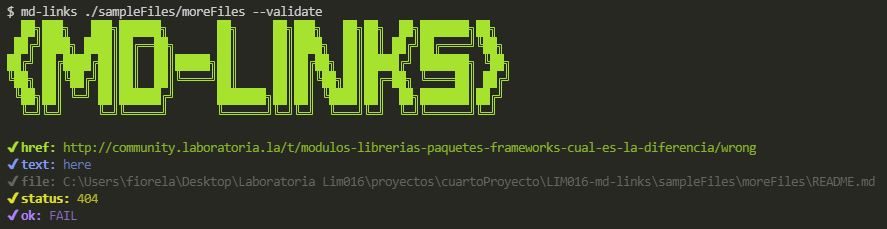
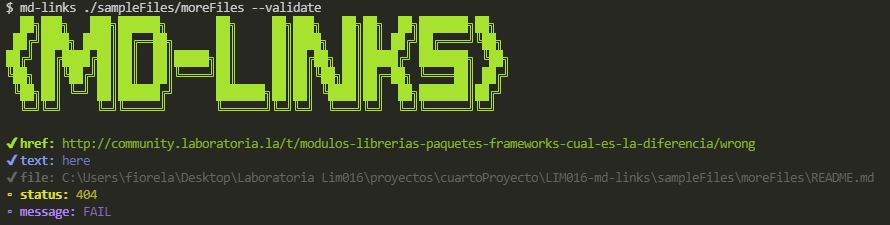
improvements in cli-options.js and md-links.js, adding another image

Changed region(s): [[0.0, 0.0, 0.5784, 0.5289], [0.0, 0.5911, 1.0, 0.84], [0.0, 0.84, 0.1218, 0.9956]]

diff --git a/src/cli-options.js b/src/cli-options.js
@@ -11,7 +11,7 @@ const optionDefault = (path) => {mdLinks(path, { validate: false })
 
 const optionValidate = (path) => {mdLinks(path, { validate: true })
   .then(links => {
-    console.log(links.map((link) => `${chalk.green.bold('✔ href:')} ${chalk.green(link.href)}\n${chalk.blue.bold('✔ text:')} ${chalk.blue(link.text)}\n${chalk.gray.bold('✔ file:')} ${chalk.gray(link.file)}\n${chalk.yellow.bold('✔ status:')} ${chalk.yellow(link.status)}\n${chalk.magenta.bold('✔ ok:')} ${chalk.magenta(link.ok)}`).join('\n\n'))})
+    console.log(links.map((link) => `${chalk.green.bold('✔ href:')} ${chalk.green(link.href)}\n${chalk.blue.bold('✔ text:')} ${chalk.blue(link.text)}\n${chalk.gray.bold('✔ file:')} ${chalk.gray(link.file)}\n${chalk.yellow.bold('▫ status:')} ${chalk.yellow(link.status)}\n${chalk.magenta.bold('▫ message:')} ${chalk.magenta(link.message)}`).join('\n\n'))})
   .catch(error => {
     console.log(error);
   })
@@ -32,7 +32,7 @@ const optionValidateStats = (path) => {mdLinks(path, {validate: true})
   .then( links => {
     const totalLinks = links.map(link =>link.href);
     const uniqueLinks = new Set(totalLinks);
-    const arrayBrokenLinks = links.map(link => link.ok);
+    const arrayBrokenLinks = links.map(link => link.message);
     const brokenLinks = arrayBrokenLinks.filter(item => item === 'FAIL');
     console.log(`${chalk.cyanBright('Total:')} ${chalk.cyan(totalLinks.length)}\n${chalk.greenBright('Unique:')} ${chalk.green(uniqueLinks.size)}\n${chalk.redBright('Broken:')} ${chalk.red(brokenLinks.length)}`);
   })

diff --git a/src/md-links.js b/src/md-links.js
@@ -84,13 +84,13 @@ const getStatusLink = (arrLinks) => {
     const fetchPromise = fetch(element.href)
     .then((response) => {
       const statusCode = response.status;
-      const message = response.status >= 200 && response.status <= 299 ? response.statusText : 'FAIL';
+      const msg = response.status >= 200 && response.status <= 299 ? response.statusText : 'FAIL';
       return {
         href: element.href,
         text: element.text,
         file: element.file,
         status: statusCode,
-        ok: message,
+        message: msg,
       };
     })
     .catch(() => {
@@ -99,7 +99,7 @@ const getStatusLink = (arrLinks) => {
         text: element.text,
         file: element.file,
         status: "Failed request",
-        ok: 'FAIL',
+        message: 'FAIL',
       }
     });
     return fetchPromise;
